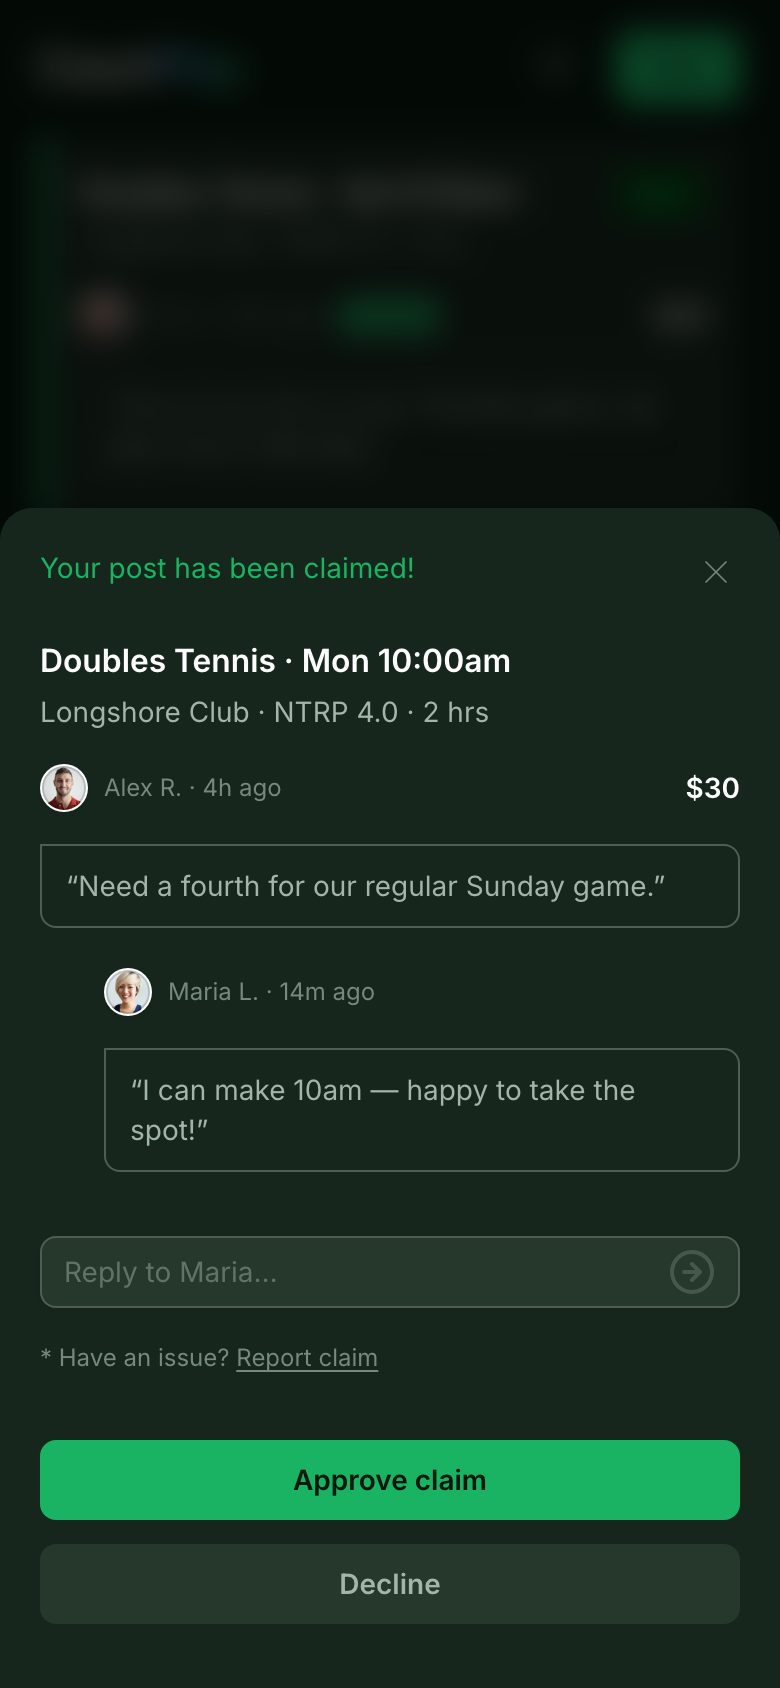
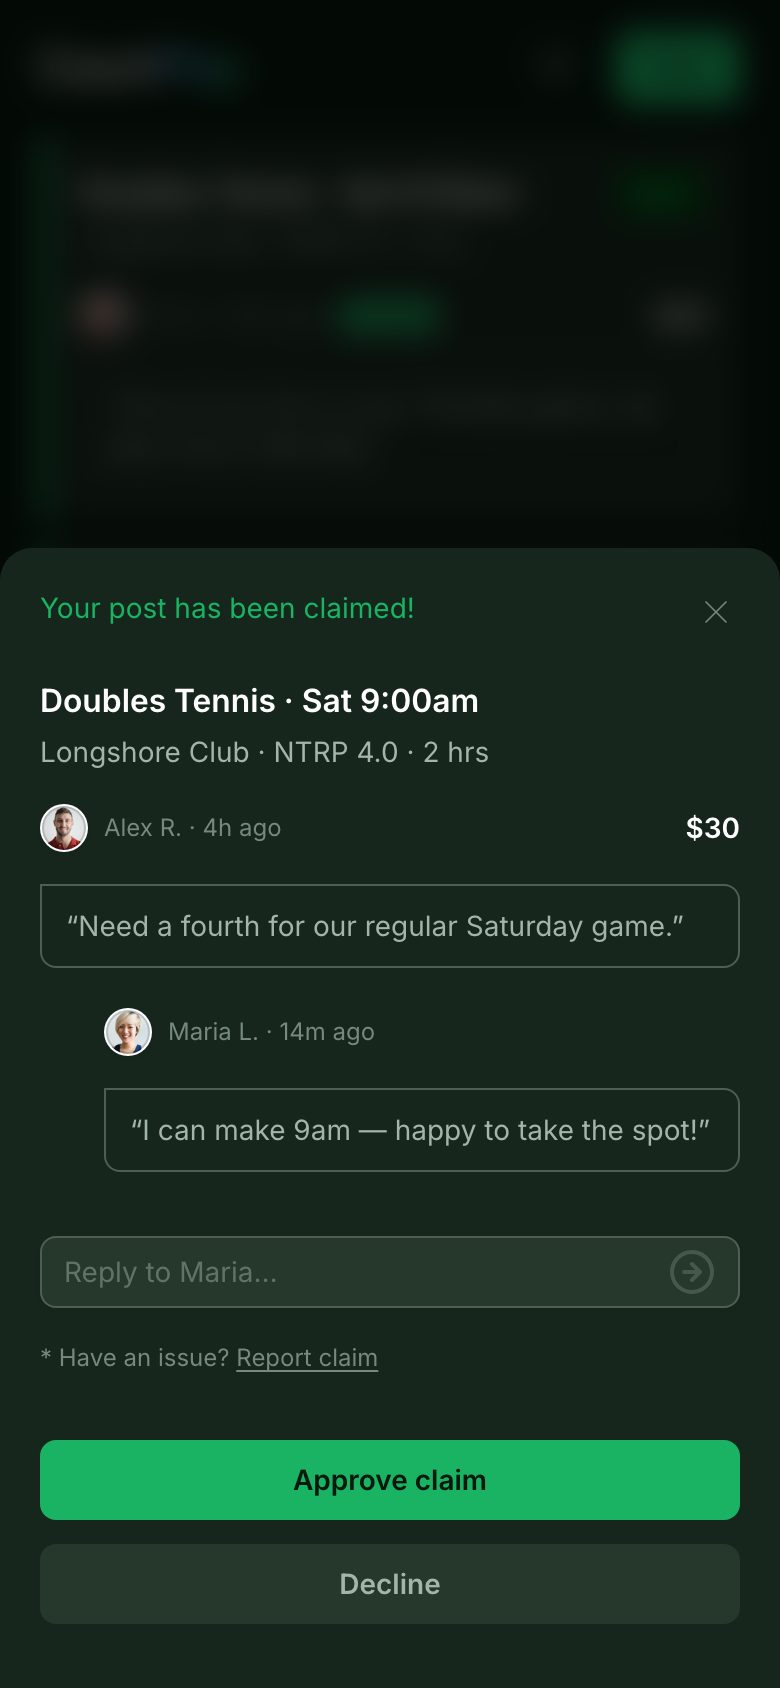
Move step 3's game to Saturday 9am (#239)
Matching the design, which shows Sat 9:00am where the fixture said Mon
10:00am. Step 4 is deliberately left alone: its Duration field is real and the
screenshot follows the build.

Two things moved with the date, because a demo that contradicts itself is
worse than one that is merely out of date: the poster's note said "our regular
Sunday game", and the claimer replied "I can make 10am" to a 9am match.

Claude-Session: https://claude.ai/code/session_018r2oK9BRqUaW7Q9zLFLBPn

Changed region(s): [[0.0, 0.2773, 1.0, 0.6777], [0.8615, 0.4621, 0.9538, 0.5545], [0.9231, 0.6161, 0.9538, 0.6469]]

diff --git a/src/demo/fixtures.ts b/src/demo/fixtures.ts
@@ -187,9 +187,10 @@ export const DEMO_MY_POST: MyPost = {
     play_type: "doubles",
     duration: 2,
     skill_level: "4.0",
-    notes: "Need a fourth for our regular Sunday game.",
-    game_date: "2026-05-18",
-    game_time: "10:00",
+    notes: "Need a fourth for our regular Saturday game.",
+    // Sat 9:00am, matching the design. 2026-05-16 is a Saturday.
+    game_date: "2026-05-16",
+    game_time: "09:00",
     location: "Longshore Club",
     custom_court: null,
     preferred_days: null,
@@ -219,7 +220,7 @@ export const DEMO_MY_POST: MyPost = {
                 {
                     id: "demo-message",
                     sender_id: "demo-maria",
-                    body: "I can make 10am — happy to take the spot!",
+                    body: "I can make 9am — happy to take the spot!",
                     created_at: ago(14),
                     first_name: "Maria",
                     last_name: "L",
